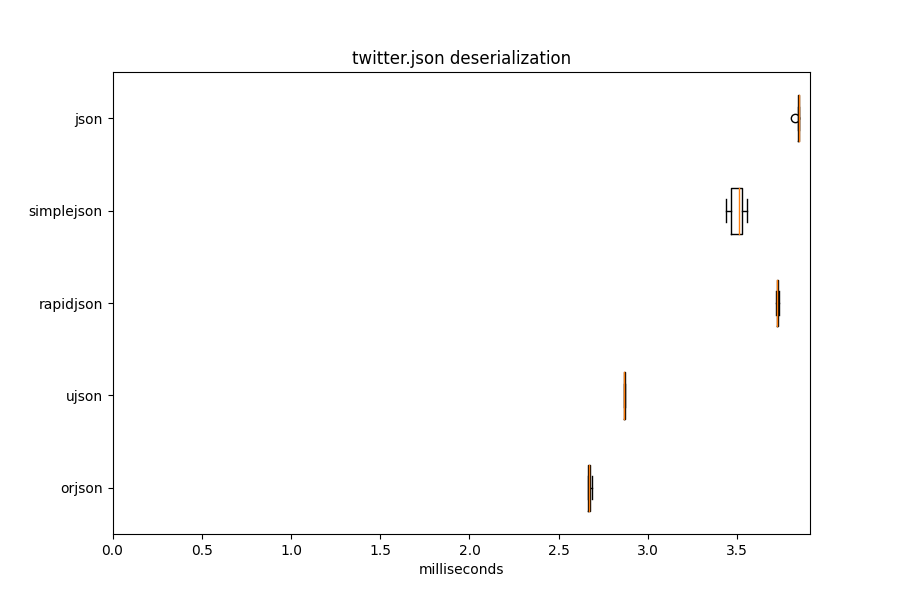
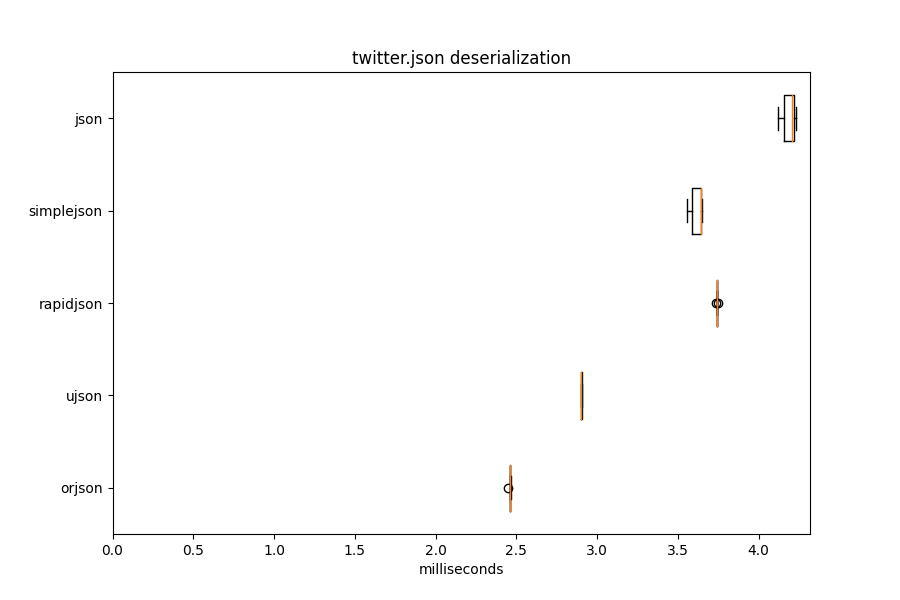
2.6.4

diff --git a/README.md b/README.md
@@ -614,8 +614,9 @@ b'1'
 
 orjson serializes and deserializes double precision floats with no loss of
 precision and consistent rounding. The same behavior is observed in rapidjson,
-simplejson, and json. ujson is inaccurate in both serialization and
-deserialization, i.e., it modifies the data.
+simplejson, and json. ujson 1.35 was inaccurate in both serialization and
+deserialization, i.e., it modifies the data, and the recent 2.0 release is
+accurate.
 
 `orjson.dumps()` serializes Nan, Infinity, and -Infinity, which are not
 compliant JSON, as `null`:
@@ -831,81 +832,81 @@ format, containing floats and arrays, indented.
 
 | Library    |   Median latency (milliseconds) |   Operations per second |   Relative (latency) |
 |------------|---------------------------------|-------------------------|----------------------|
-| orjson     |                            0.59 |                  1680   |                 1    |
-| ujson      |                            1.82 |                   549.6 |                 3.07 |
-| rapidjson  |                            2.45 |                   408.8 |                 4.12 |
-| simplejson |                            3.23 |                   309.7 |                 5.44 |
-| json       |                            3.22 |                   310.1 |                 5.43 |
+| orjson     |                            0.66 |                  1524.6 |                 1    |
+| ujson      |                            2.04 |                   489.4 |                 3.11 |
+| rapidjson  |                            2.44 |                   410.2 |                 3.71 |
+| simplejson |                            3.22 |                   309.7 |                 4.91 |
+| json       |                            3.24 |                   309.1 |                 4.93 |
 
 #### twitter.json deserialization
 
 | Library    |   Median latency (milliseconds) |   Operations per second |   Relative (latency) |
 |------------|---------------------------------|-------------------------|----------------------|
-| orjson     |                            2.67 |                   374.3 |                 1    |
-| ujson      |                            2.87 |                   348.7 |                 1.07 |
-| rapidjson  |                            3.73 |                   268.4 |                 1.39 |
-| simplejson |                            3.51 |                   285.9 |                 1.32 |
-| json       |                            3.85 |                   260.4 |                 1.44 |
+| orjson     |                            2.46 |                   406.9 |                 1    |
+| ujson      |                            2.9  |                   344.6 |                 1.18 |
+| rapidjson  |                            3.74 |                   267.3 |                 1.52 |
+| simplejson |                            3.64 |                   276.5 |                 1.48 |
+| json       |                            4.21 |                   238.9 |                 1.71 |
 
 #### github.json serialization
 
 | Library    |   Median latency (milliseconds) |   Operations per second |   Relative (latency) |
 |------------|---------------------------------|-------------------------|----------------------|
-| orjson     |                            0.07 |                 14839.8 |                 1    |
-| ujson      |                            0.18 |                  5596.8 |                 2.65 |
-| rapidjson  |                            0.27 |                  3749.5 |                 3.96 |
-| simplejson |                            0.44 |                  2296.9 |                 6.46 |
-| json       |                            0.36 |                  2740.7 |                 5.42 |
+| orjson     |                            0.07 |                 13244.4 |                 1    |
+| ujson      |                            0.2  |                  4869   |                 2.73 |
+| rapidjson  |                            0.27 |                  3768.1 |                 3.54 |
+| simplejson |                            0.44 |                  2290.3 |                 5.83 |
+| json       |                            0.35 |                  2821.8 |                 4.73 |
 
 #### github.json deserialization
 
 | Library    |   Median latency (milliseconds) |   Operations per second |   Relative (latency) |
 |------------|---------------------------------|-------------------------|----------------------|
-| orjson     |                            0.22 |                  4449.3 |                 1    |
-| ujson      |                            0.28 |                  3530.5 |                 1.26 |
-| rapidjson  |                            0.31 |                  3186.7 |                 1.4  |
-| simplejson |                            0.29 |                  3489.7 |                 1.27 |
-| json       |                            0.33 |                  3070.2 |                 1.45 |
+| orjson     |                            0.21 |                  4811.7 |                 1    |
+| ujson      |                            0.28 |                  3540.1 |                 1.36 |
+| rapidjson  |                            0.31 |                  3207.8 |                 1.5  |
+| simplejson |                            0.29 |                  3443.9 |                 1.4  |
+| json       |                            0.33 |                  3046.7 |                 1.59 |
 
 #### citm_catalog.json serialization
 
 | Library    |   Median latency (milliseconds) |   Operations per second |   Relative (latency) |
 |------------|---------------------------------|-------------------------|----------------------|
-| orjson     |                            1.02 |                   985.4 |                 1    |
-| ujson      |                            3.07 |                   325   |                 3.03 |
-| rapidjson  |                            3.54 |                   282.8 |                 3.48 |
-| simplejson |                           10.82 |                    92   |                10.66 |
-| json       |                            6.77 |                   147.4 |                 6.67 |
+| orjson     |                            1.02 |                   978.7 |                 1    |
+| ujson      |                            3.48 |                   287.7 |                 3.4  |
+| rapidjson  |                            3.48 |                   287.3 |                 3.4  |
+| simplejson |                           10.85 |                    91.3 |                10.62 |
+| json       |                            6.79 |                   147.4 |                 6.64 |
 
 #### citm_catalog.json deserialization
 
 | Library    |   Median latency (milliseconds) |   Operations per second |   Relative (latency) |
 |------------|---------------------------------|-------------------------|----------------------|
-| orjson     |                            5.07 |                   194.2 |                 1    |
-| ujson      |                            6.22 |                   160.7 |                 1.23 |
-| rapidjson  |                            7.49 |                   133.6 |                 1.48 |
-| simplejson |                            7.46 |                   133.9 |                 1.47 |
-| json       |                            8.02 |                   124.5 |                 1.58 |
+| orjson     |                            4.38 |                   228.3 |                 1    |
+| ujson      |                            5.58 |                   179.2 |                 1.27 |
+| rapidjson  |                            7.52 |                   132.2 |                 1.72 |
+| simplejson |                            7.4  |                   135.2 |                 1.69 |
+| json       |                            7.88 |                   126.9 |                 1.8  |
 
 #### canada.json serialization
 
 | Library    |   Median latency (milliseconds) |   Operations per second |   Relative (latency) |
 |------------|---------------------------------|-------------------------|----------------------|
-| orjson     |                            4.8  |                   202   |                 1    |
-| ujson      |                                 |                         |                      |
-| rapidjson  |                           63.97 |                    15.6 |                13.33 |
-| simplejson |                           82.38 |                    12.1 |                17.17 |
-| json       |                           64.96 |                    15.4 |                13.54 |
+| orjson     |                            4.69 |                   209.7 |                 1    |
+| ujson      |                           20.03 |                    49.9 |                 4.27 |
+| rapidjson  |                           61.8  |                    16.2 |                13.17 |
+| simplejson |                           79.63 |                    12.6 |                16.96 |
+| json       |                           62.73 |                    15.9 |                13.36 |
 
 #### canada.json deserialization
 
 | Library    |   Median latency (milliseconds) |   Operations per second |   Relative (latency) |
 |------------|---------------------------------|-------------------------|----------------------|
-| orjson     |                           16.25 |                    61.5 |                 1    |
-| ujson      |                                 |                         |                      |
-| rapidjson  |                           38.02 |                    26.3 |                 2.34 |
-| simplejson |                           37.2  |                    26.9 |                 2.29 |
-| json       |                           37.78 |                    27.2 |                 2.33 |
+| orjson     |                           10.14 |                    98.5 |                 1    |
+| ujson      |                           15.58 |                    64.4 |                 1.54 |
+| rapidjson  |                           37.3  |                    26.8 |                 3.68 |
+| simplejson |                           36.4  |                    27.5 |                 3.59 |
+| json       |                           37.24 |                    27.2 |                 3.67 |
 
 If a row is blank, the library did not serialize and deserialize the fixture without
 modifying it, e.g., returning different values for floating point numbers.
@@ -924,45 +925,45 @@ calling `loads()` on the fixture.
 | Library    |   import, read() RSS (MiB) |   loads() increase in RSS (MiB) |
 |------------|----------------------------|---------------------------------|
 | orjson     |                       13.6 |                             2.5 |
-| ujson      |                       13.2 |                             4.2 |
-| rapidjson  |                       14.8 |                             6.5 |
-| simplejson |                       13.3 |                             2.5 |
-| json       |                       12.9 |                             2.3 |
+| ujson      |                       14.1 |                             4.1 |
+| rapidjson  |                       14.7 |                             6.4 |
+| simplejson |                       13.5 |                             2.5 |
+| json       |                       13   |                             2.3 |
 
 #### github.json
 
 | Library    |   import, read() RSS (MiB) |   loads() increase in RSS (MiB) |
 |------------|----------------------------|---------------------------------|
-| orjson     |                       13   |                             0.3 |
-| ujson      |                       12.5 |                             0.6 |
-| rapidjson  |                       14.3 |                             0.7 |
+| orjson     |                       13.1 |                             0.3 |
+| ujson      |                       13.7 |                             0.3 |
+| rapidjson  |                       14   |                             0.7 |
 | simplejson |                       12.7 |                             0.3 |
-| json       |                       12.3 |                             0.3 |
+| json       |                       12.3 |                             0.1 |
 
 #### citm_catalog.json
 
 | Library    |   import, read() RSS (MiB) |   loads() increase in RSS (MiB) |
 |------------|----------------------------|---------------------------------|
 | orjson     |                       15   |                             7.7 |
-| ujson      |                       14.5 |                            11   |
-| rapidjson  |                       15.8 |                            36   |
+| ujson      |                       15.4 |                            11.1 |
+| rapidjson  |                       15.8 |                            29.4 |
 | simplejson |                       14.5 |                            30.7 |
-| json       |                       14.1 |                            27.1 |
+| json       |                       14.2 |                            27.2 |
 
 #### canada.json
 
-| Library    | import, read() RSS (MiB)   | loads() increase in RSS (MiB)   |
+| Library    |   import, read() RSS (MiB) |   loads() increase in RSS (MiB) |
 |------------|----------------------------|---------------------------------|
-| orjson     | 17.3                       | 15.7                            |
-| ujson      |                            |                                 |
-| rapidjson  | 18.2                       | 17.9                            |
-| simplejson | 17.1                       | 19.6                            |
-| json       | 16.6                       | 19.4                            |
+| orjson     |                       17.3 |                            15.7 |
+| ujson      |                       17.7 |                            17.4 |
+| rapidjson  |                       18.3 |                            17.9 |
+| simplejson |                       17.1 |                            19.6 |
+| json       |                       16.8 |                            19.4 |
 
 ### Reproducing
 
 The above was measured using Python 3.8.2 on Linux (x86_64) with
-orjson 2.6.1, ujson 1.35, python-rapidson 0.9.1, and simplejson 3.17.0.
+orjson 2.6.4, ujson 2.0.3, python-rapidson 0.9.1, and simplejson 3.17.0.
 
 The latency results can be reproduced using the `pybench` and `graph`
 scripts. The memory results can be reproduced using the `pymem` script.

diff --git a/CHANGELOG.md b/CHANGELOG.md
@@ -1,5 +1,11 @@
 # Changelog
 
+## 2.6.3 - 2020-04-08
+
+### Changed
+
+- Improve deserialization performance of floats by about 40%.
+
 ## 2.6.3 - 2020-04-01
 
 ### Changed
